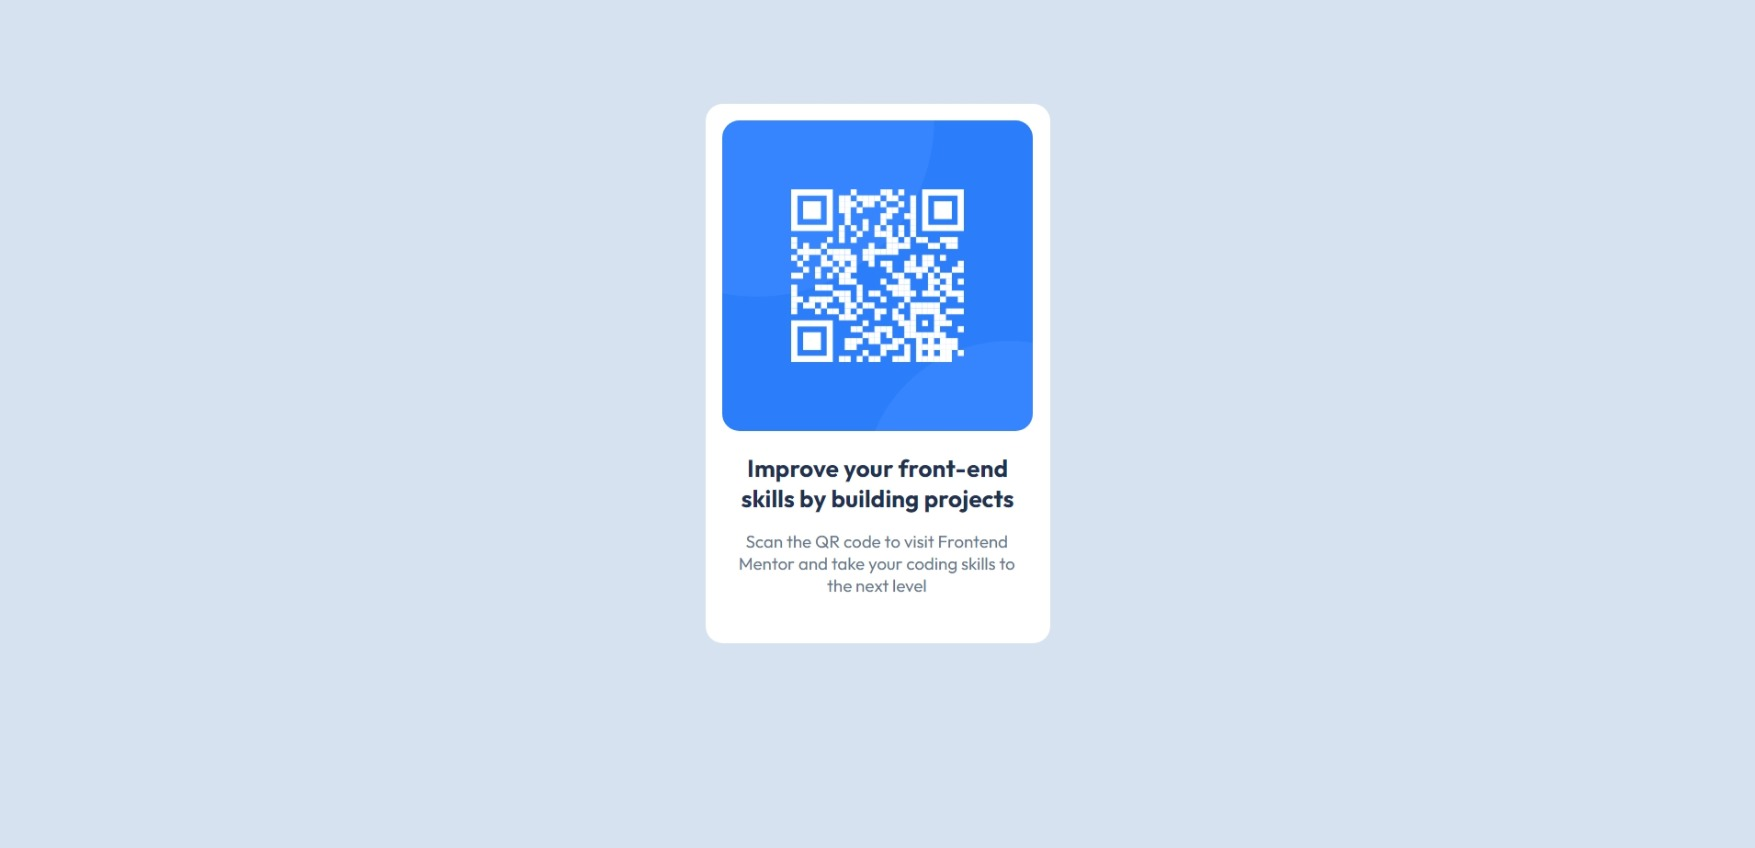
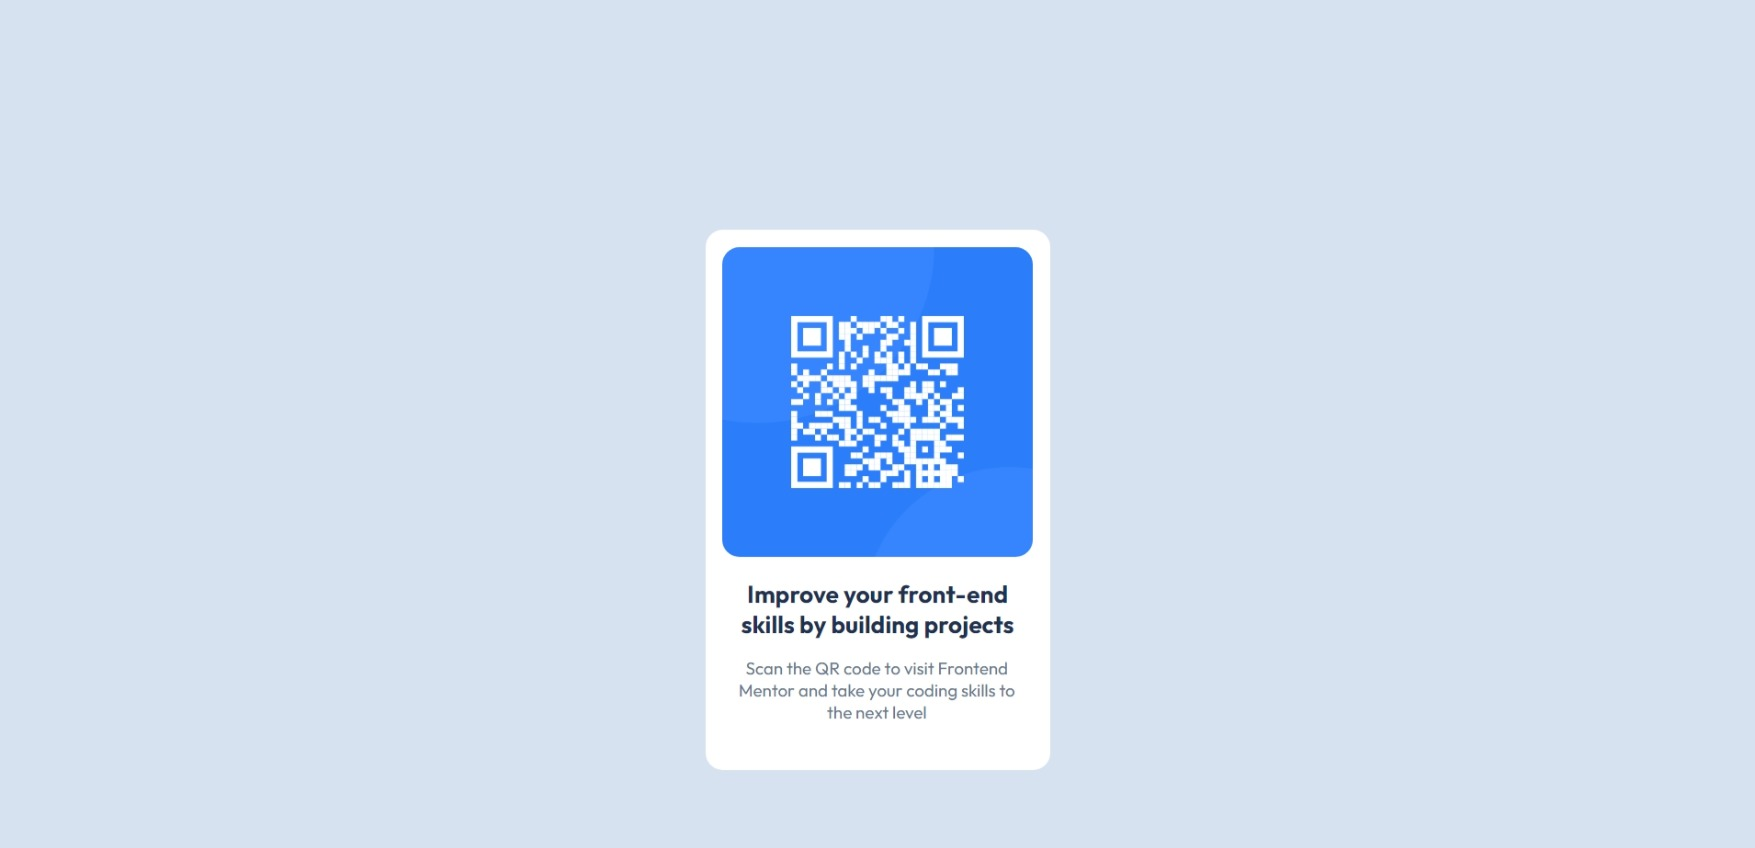
güncellendi

Changed region(s): [[0.4, 0.1226, 0.6154, 0.9198]]

diff --git a/style.css b/style.css
@@ -10,7 +10,7 @@ text-align: center;
     height: 470px;
     width: 300px;
     background-color: white;
-    margin: 90px auto 0 auto;
+    margin: 200px auto 0 auto;
     border-radius: 15px;
 }
 img{    
